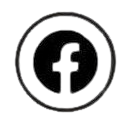
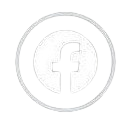
AtividadeFooter&Hader

Changed region(s): [[0.237, 0.2439, 0.7407, 0.7805], [0.0889, 0.0976, 0.8593, 0.9268]]

diff --git a/src/globals.css b/src/globals.css
@@ -70,9 +70,10 @@ font-family: Sans-serif;
 footer{
     border-top: 1px solid black ;
     width: 100%;
-    background-color: white;
-    color: black;
-    margin-top: 520px;
+    height: 200px;
+    background-color:black;
+    color: white;
+    margin-top: 100px;
 }
 
 
@@ -85,7 +86,7 @@ footer{
 #redes-sociais {
     width: 100%;
     text-align: center;
-    color: black;
+    color: white;
     padding-top: 30px;
   }
 
@@ -96,7 +97,7 @@ footer{
   #tamanhoDaRedesocial{
     font-size: 18px;
     margin: 0;
-    font-family: Sans-serif;
+  
   }
 
   #tamanhoDaRedeS{
@@ -113,7 +114,7 @@ footer{
   #descricoes{
     line-height: 7.0px;
     text-align: center;
-    color: black;
+    color: white;
     padding-top: 24px;
     font-family: Arial;
   }
